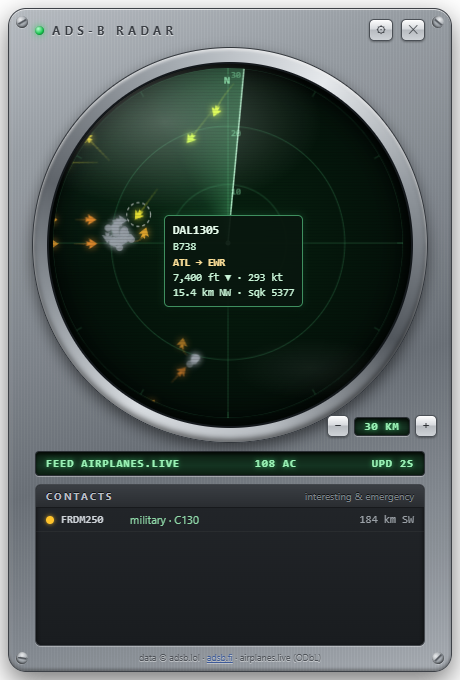
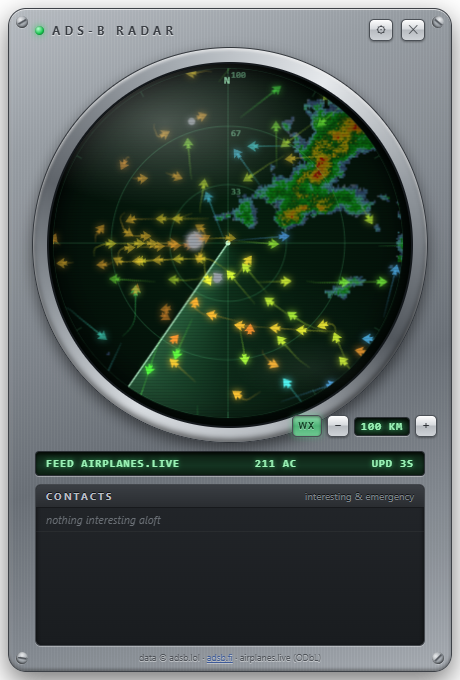
PPI-style sweep paint + toggleable NEXRAD weather underlay
Blips now freeze at their last beam crossing and repaint only as the sweep
passes their bearing, with phosphor decay between passes and a ~16s ghost
fade for contacts that stop reporting. Trails advance at paint time.

WX button overlays the IEM NEXRAD composite (no key), fetched in Rust with
a 5-minute tile cache and handed to the canvas as data URLs; drawn dim
under the grid to keep the phosphor look. Toggle persists in config.

diff --git a/ui/app.js b/ui/app.js
@@ -14,6 +14,12 @@ let lastError = null;
 let zoomKm = 30;
 let trails = new Map(); // hex -> [{lat, lon, t}]
 let hitboxes = []; // [{x, y, ac}] screen-space, rebuilt each frame
+// PPI state: what's DRAWN is frozen at the last beam crossing, not the poll.
+let latestByHex = new Map(); // hex -> freshest aircraft data from poll A
+let painted = new Map(); // hex -> { ac, t } — snapshot taken as the beam passed
+let prevSweep = 0;
+const SWEEP_MS = 4000;
+const TAU = Math.PI * 2;
 let hoverHex = null;
 let highlightHex = null;
 let cardHex = null;
@@ -95,6 +101,19 @@ function draw(tms) {
   ctx.arc(cx, cy, R, 0, Math.PI * 2);
   ctx.clip();
 
+  // NEXRAD underlay — dim, beneath the grid, so the phosphor vibe survives
+  if (wx.on && wx.tiles.length) {
+    ctx.globalAlpha = 0.5;
+    for (const t of wx.tiles) {
+      const nw = kmOffsets({ lat: t.n, lon: t.w });
+      const se = kmOffsets({ lat: t.s, lon: t.e });
+      const x0 = cx + nw.dx * scale, y0 = cy - nw.dy * scale;
+      const x1 = cx + se.dx * scale, y1 = cy - se.dy * scale;
+      ctx.drawImage(t.img, x0, y0, x1 - x0, y1 - y0);
+    }
+    ctx.globalAlpha = 1;
+  }
+
   // grid: rings + crosshair + degree ticks
   ctx.strokeStyle = "rgba(90, 220, 140, 0.22)";
   ctx.fillStyle = "rgba(140, 235, 175, 0.5)";
@@ -148,11 +167,35 @@ function draw(tms) {
   ctx.lineTo(cx + Math.cos(beam) * R, cy + Math.sin(beam) * R);
   ctx.stroke();
 
+  // PPI paint pass: a blip's drawn position refreshes only when the beam
+  // crosses its latest bearing — dots update under the sweep, not in unison.
+  {
+    const step = (sweepAng - prevSweep + TAU) % TAU;
+    if (step > 0) {
+      for (const [hex, a] of latestByHex) {
+        const off = kmOffsets(a);
+        const ang = (Math.atan2(off.dx, off.dy) + TAU) % TAU;
+        const d = (ang - prevSweep + TAU) % TAU;
+        if (d > 0 && d <= step) {
+          painted.set(hex, { ac: a, t: tms });
+          let tr = trails.get(hex);
+          if (!tr) { tr = []; trails.set(hex, tr); }
+          const last = tr[tr.length - 1];
+          if (!last || last.lat !== a.lat || last.lon !== a.lon) {
+            tr.push({ lat: a.lat, lon: a.lon, t: Date.now() });
+            if (tr.length > 40) tr.shift();
+          }
+        }
+      }
+    }
+    prevSweep = sweepAng;
+  }
+
   // trails
   for (const [hex, pts] of trails) {
     if (pts.length < 2) continue;
-    const ac = snapshot.ac.find(a => a.hex === hex);
-    const col = ac ? altColor(ac.alt_baro) : "hsl(140,70%,60%)";
+    const src = painted.get(hex);
+    const col = src ? altColor(src.ac.alt_baro) : "hsl(140,70%,60%)";
     for (let i = 1; i < pts.length; i++) {
       const p0 = kmOffsets(pts[i - 1]), p1 = kmOffsets(pts[i]);
       ctx.strokeStyle = col;
@@ -166,20 +209,30 @@ function draw(tms) {
   }
   ctx.globalAlpha = 1;
 
-  // blips
+  // blips — drawn from their last-painted state, decaying until repainted;
+  // contacts with no fresh data ghost out over ~16 s
   hitboxes = [];
-  const visible = snapshot.ac.filter(a => a.lat != null && a.lon != null && a.dst_km != null && a.dst_km <= zoomKm * 1.06);
+  const visible = [];
+  for (const [hex, p] of painted) {
+    const live = latestByHex.has(hex);
+    const age = tms - p.t;
+    if (!live && age > 16000) {
+      painted.delete(hex);
+      continue;
+    }
+    if (p.ac.dst_km == null || p.ac.dst_km > zoomKm * 1.06) continue;
+    visible.push({ ac: p.ac, live, age });
+  }
   const drawLabels = visible.length <= 18;
-  for (const ac of visible) {
+  for (const { ac, live, age } of visible) {
     const { dx, dy } = kmOffsets(ac);
     const x = cx + dx * scale, y = cy - dy * scale;
     hitboxes.push({ x, y, ac });
 
-    // phosphor afterglow: brightest just after the beam passes
-    const blipAng = Math.atan2(dx, dy); // 0 = north, cw — matches sweepAng
-    let behind = sweepAng - blipAng;
-    behind = ((behind % (Math.PI * 2)) + Math.PI * 2) % (Math.PI * 2);
-    const glow = Math.max(0.45, 1.15 - (behind / (Math.PI * 2)) * 1.5);
+    // phosphor decay: bright at paint, dimming until the next pass
+    let glow = Math.min(1, Math.max(0.45, 1.15 - (age / SWEEP_MS) * 1.5));
+    if (!live) glow *= Math.max(0, 1 - Math.max(0, age - 8000) / 8000);
+    if (glow <= 0.02) continue;
 
     const col = ac.is_emergency ? "#ff5546" : altColor(ac.alt_baro);
     ctx.save();
@@ -324,6 +377,78 @@ canvas.addEventListener("click", ev => {
   if (hit) openCard(hit.ac.hex);
 });
 
+// ————— NEXRAD weather underlay —————
+// Tiles come through Rust (get_wx_tile) as data URLs: the webview does no
+// HTTP and the canvas never taints. IEM refreshes ~5-minutely; so do we.
+const wx = { on: false, tiles: [], sig: "", lastFetch: 0, fetching: false };
+
+function tile2lon(x, z) { return (x / 2 ** z) * 360 - 180; }
+function tile2lat(y, z) {
+  return (180 / Math.PI) * Math.atan(Math.sinh(Math.PI - (2 * Math.PI * y) / 2 ** z));
+}
+
+async function wxRefresh(force) {
+  if (!wx.on || wx.fetching || !cfg) return;
+  const lat = cfg.home_lat, lon = cfg.home_lon;
+  const lat2ty = (la, z) => {
+    const r = (la * Math.PI) / 180;
+    return Math.floor(((1 - Math.log(Math.tan(r) + 1 / Math.cos(r)) / Math.PI) / 2) * 2 ** z);
+  };
+  // pick a zoom where the disc spans a handful of tiles; back off if the
+  // math ever asks for a silly number of fetches
+  let z = Math.max(4, Math.min(10,
+    Math.round(Math.log2((40075 * Math.cos((lat * Math.PI) / 180)) / zoomKm)) - 1));
+  let x0, x1, y0, y1;
+  for (;;) {
+    const latSpan = zoomKm / 110.574;
+    const lonSpan = zoomKm / (111.32 * Math.cos((lat * Math.PI) / 180));
+    x0 = Math.floor(((lon - lonSpan + 180) / 360) * 2 ** z);
+    x1 = Math.floor(((lon + lonSpan + 180) / 360) * 2 ** z);
+    y0 = lat2ty(lat + latSpan, z);
+    y1 = lat2ty(lat - latSpan, z);
+    if ((x1 - x0 + 1) * (y1 - y0 + 1) <= 16 || z <= 4) break;
+    z--;
+  }
+  const sig = `${z}/${x0}-${x1}/${y0}-${y1}`;
+  const now = Date.now();
+  if (!force && sig === wx.sig && now - wx.lastFetch < 300000) return;
+  wx.fetching = true;
+  try {
+    const tiles = [];
+    for (let x = x0; x <= x1; x++) {
+      for (let y = y0; y <= y1; y++) {
+        const url = await invoke("get_wx_tile", { z, x, y });
+        const img = new Image();
+        await new Promise((res, rej) => { img.onload = res; img.onerror = rej; img.src = url; });
+        tiles.push({ img, n: tile2lat(y, z), s: tile2lat(y + 1, z), w: tile2lon(x, z), e: tile2lon(x + 1, z) });
+      }
+    }
+    wx.tiles = tiles;
+    wx.sig = sig;
+    wx.lastFetch = now;
+  } catch {
+    // tile hiccup: keep the previous frame, retry next cycle
+  } finally {
+    wx.fetching = false;
+  }
+}
+setInterval(() => wxRefresh(false), 60000);
+
+document.getElementById("wx-toggle").addEventListener("click", () => {
+  wx.on = !wx.on;
+  document.getElementById("wx-toggle").classList.toggle("latched", wx.on);
+  if (wx.on) {
+    wx.sig = ""; // force re-fetch for current view
+    wxRefresh(true);
+  } else {
+    wx.tiles = [];
+  }
+  if (cfg) {
+    cfg.wx_enabled = wx.on;
+    invoke("set_config", { newCfg: cfg }).catch(() => {});
+  }
+});
+
 // ————— zoom —————
 function setZoomIdx(idx) {
   const steps = cfg.zoom_steps_km;
@@ -331,6 +456,7 @@ function setZoomIdx(idx) {
   zoomKm = steps[i];
   document.getElementById("zoom-label").textContent =
     zoomKm >= 100 ? Math.round(zoomKm) + " KM" : zoomKm + " KM";
+  wxRefresh(true);
 }
 function zoomIdx() {
   let best = 0, bd = Infinity;
@@ -544,21 +670,17 @@ listen("radar:update", ev => {
   snapshot = ev.payload;
   lastRx = Date.now();
   lastError = null;
-  const now = Date.now();
+  // Fresh data feeds the paint pass; the DRAWN state only changes when the
+  // sweep passes each contact (see the PPI block in draw()).
+  latestByHex = new Map();
   for (const a of snapshot.ac) {
     if (a.lat == null || a.lon == null) continue;
-    let t = trails.get(a.hex);
-    if (!t) { t = []; trails.set(a.hex, t); }
-    const last = t[t.length - 1];
-    if (!last || last.lat !== a.lat || last.lon !== a.lon) {
-      t.push({ lat: a.lat, lon: a.lon, t: now });
-      if (t.length > 40) t.shift();
-    }
+    latestByHex.set(a.hex, a);
   }
   // expire trails of contacts gone > 5 min
-  const liveHex = new Set(snapshot.ac.map(a => a.hex));
+  const now = Date.now();
   for (const [hex, t] of trails) {
-    if (!liveHex.has(hex) && now - t[t.length - 1].t > 300000) trails.delete(hex);
+    if (!latestByHex.has(hex) && now - t[t.length - 1].t > 300000) trails.delete(hex);
   }
   document.getElementById("lcd-feed").textContent = "FEED " + snapshot.feed.toUpperCase();
   document.getElementById("lcd-count").textContent = snapshot.ac.length + " AC";
@@ -590,6 +712,10 @@ listen("radar:focus", ev => {
 (async function init() {
   cfg = await invoke("get_config");
   zoomKm = cfg.default_zoom_km;
+  // valid projection center before the first poll lands
+  snapshot.home = { lat: cfg.home_lat, lon: cfg.home_lon };
+  wx.on = !!cfg.wx_enabled;
+  document.getElementById("wx-toggle").classList.toggle("latched", wx.on);
   setZoomIdx(zoomIdx());
   sizeCanvas();
   requestAnimationFrame(draw);

diff --git a/ui/style.css b/ui/style.css
@@ -93,6 +93,13 @@ html, body {
 .chrome-btn:hover { background: linear-gradient(#ffffff 0%, #e3e7ec 45%, #c4c9cf 50%, #dde2e7 100%); }
 .chrome-btn:active { background: linear-gradient(#b7bbc0, #d7dade); box-shadow: inset 0 1px 3px rgba(0,0,0,0.4); }
 .chrome-btn.wide { width: 100%; height: 28px; font-weight: 700; letter-spacing: 1px; }
+#wx-toggle { font-size: 9px; font-weight: 700; letter-spacing: 1px; }
+.chrome-btn.latched {
+  background: linear-gradient(#8fdcac 0%, #4fb377 50%, #6fca92 100%);
+  color: #0b3a1e;
+  box-shadow: inset 0 1px 3px rgba(0,0,0,0.5), 0 0 6px rgba(80,220,140,0.5);
+  text-shadow: 0 1px 0 rgba(255,255,255,0.35);
+}
 
 /* ————— the disc ————— */
 #disc-wrap { position: relative; display: flex; flex-direction: column; align-items: center; }

diff --git a/ui/index.html b/ui/index.html
@@ -28,6 +28,7 @@
         </div>
       </div>
       <div id="zoom">
+        <button id="wx-toggle" class="chrome-btn" title="NEXRAD weather underlay">WX</button>
         <button id="zoom-out" class="chrome-btn" title="Zoom out">−</button>
         <div id="zoom-label" class="lcd-text">30 KM</div>
         <button id="zoom-in" class="chrome-btn" title="Zoom in">+</button>

diff --git a/src-tauri/src/main.rs b/src-tauri/src/main.rs
@@ -20,6 +20,8 @@ struct AppState {
     config: RwLock<Config>,
     client: FeedClient,
     routes: routes::RouteCache,
+    /// NEXRAD tile cache: (z, x, y, 5-min bucket) → data URL.
+    wx_tiles: Mutex<HashMap<(u32, u32, u32, u64), String>>,
     engine_interesting: Mutex<AlertEngine>,
     engine_emergency: Mutex<AlertEngine>,
     /// Hexes currently emergency-classified by poll A (local) and poll B
@@ -64,6 +66,49 @@ async fn get_route(
         }
         r
     }))
+}
+
+/// NEXRAD composite tile (Iowa Environmental Mesonet, no key), returned as a
+/// data URL so the webview never does HTTP and the canvas never taints.
+/// Cached per 5-minute bucket, matching IEM's refresh cadence.
+#[tauri::command]
+async fn get_wx_tile(
+    z: u32,
+    x: u32,
+    y: u32,
+    state: tauri::State<'_, AppState>,
+) -> Result<String, String> {
+    use base64::{engine::general_purpose::STANDARD, Engine};
+    let bucket = std::time::SystemTime::now()
+        .duration_since(std::time::UNIX_EPOCH)
+        .map_err(|e| e.to_string())?
+        .as_secs()
+        / 300;
+    let key = (z, x, y, bucket);
+    if let Some(hit) = state.wx_tiles.lock().unwrap().get(&key) {
+        return Ok(hit.clone());
+    }
+    let url = format!(
+        "https://mesonet.agron.iastate.edu/cache/tile.py/1.0.0/nexrad-n0q-900913/{z}/{x}/{y}.png"
+    );
+    let resp = state
+        .client
+        .http()
+        .get(&url)
+        .send()
+        .await
+        .map_err(|e| e.to_string())?;
+    if !resp.status().is_success() {
+        return Err(format!("wx http {}", resp.status().as_u16()));
+    }
+    let bytes = resp.bytes().await.map_err(|e| e.to_string())?;
+    let data_url = format!("data:image/png;base64,{}", STANDARD.encode(&bytes));
+    {
+        let mut cache = state.wx_tiles.lock().unwrap();
+        cache.retain(|k, _| k.3 == bucket); // drop stale buckets
+        cache.insert(key, data_url.clone());
+    }
+    Ok(data_url)
 }
 
 #[tauri::command]
@@ -353,6 +398,7 @@ fn main() {
             config: RwLock::new(config::load()),
             client: FeedClient::new(),
             routes: routes::RouteCache::new(),
+            wx_tiles: Mutex::new(HashMap::new()),
             engine_interesting: Mutex::new(AlertEngine::new()),
             engine_emergency: Mutex::new(AlertEngine::new()),
             emerg_local: Mutex::new(HashSet::new()),
@@ -363,6 +409,7 @@ fn main() {
             get_config,
             set_config,
             get_route,
+            get_wx_tile,
             set_activatable
         ])
         .setup(|app| {

diff --git a/src-tauri/src/config.rs b/src-tauri/src/config.rs
@@ -33,6 +33,8 @@ pub struct Config {
     pub zoom_steps_km: Vec<f64>,
     pub emergency_squawks: Vec<String>,
     pub toast_sound: bool,
+    /// NEXRAD weather underlay on the disc.
+    pub wx_enabled: bool,
     /// "auto" (WorkerW, fall back to bottom) | "workerw" | "bottom" | "normal"
     pub desktop_mode: String,
     pub feeds: Vec<Feed>,
@@ -59,6 +61,7 @@ impl Default for Config {
             zoom_steps_km: vec![10.0, 20.0, 30.0, 50.0, 100.0, 185.0, 300.0, 463.0],
             emergency_squawks: vec!["7500".into(), "7600".into(), "7700".into()],
             toast_sound: false,
+            wx_enabled: false,
             desktop_mode: "auto".into(),
             feeds: vec![
                 Feed {

diff --git a/README.md b/README.md
@@ -84,6 +84,18 @@ only after leaving it *and* the cooldown elapsing. Toasts are silent
 (`<audio silent="true"/>`). Clicking a toast raises the gadget and opens that
 aircraft's card.
 
+## The disc
+
+- **PPI paint**: a blip's drawn position refreshes only when the sweep
+  crosses its bearing — dots update under the beam, not in unison. Fresh
+  poll data waits invisibly until the beam comes around; contacts that stop
+  reporting ghost out over ~16 s of phosphor decay.
+- **Weather underlay (WX button)**: NEXRAD composite from the Iowa
+  Environmental Mesonet (free, no key), fetched in Rust as 5-minute-cached
+  tiles and returned to the webview as data URLs (no page HTTP, no canvas
+  taint), drawn dim beneath the grid so the phosphor look survives. The
+  toggle persists in config (`wx_enabled`).
+
 ## Window behavior
 
 `desktop_mode` in config: